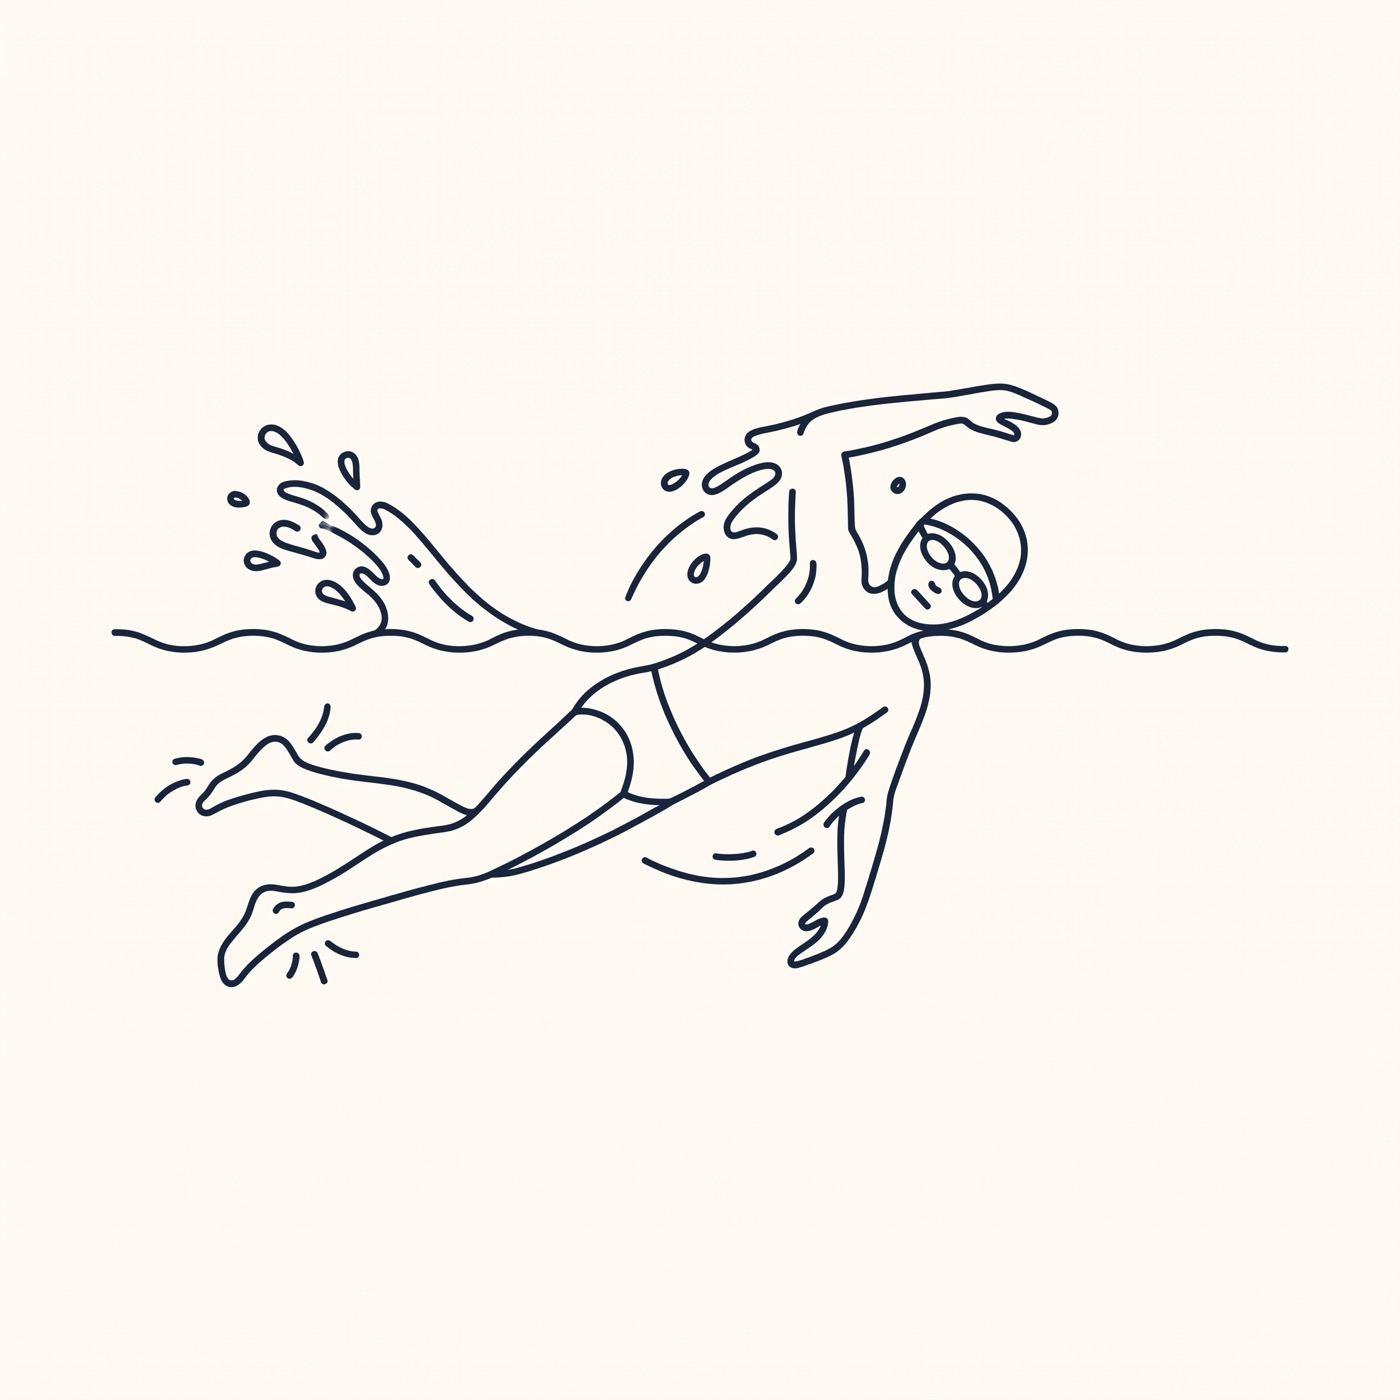
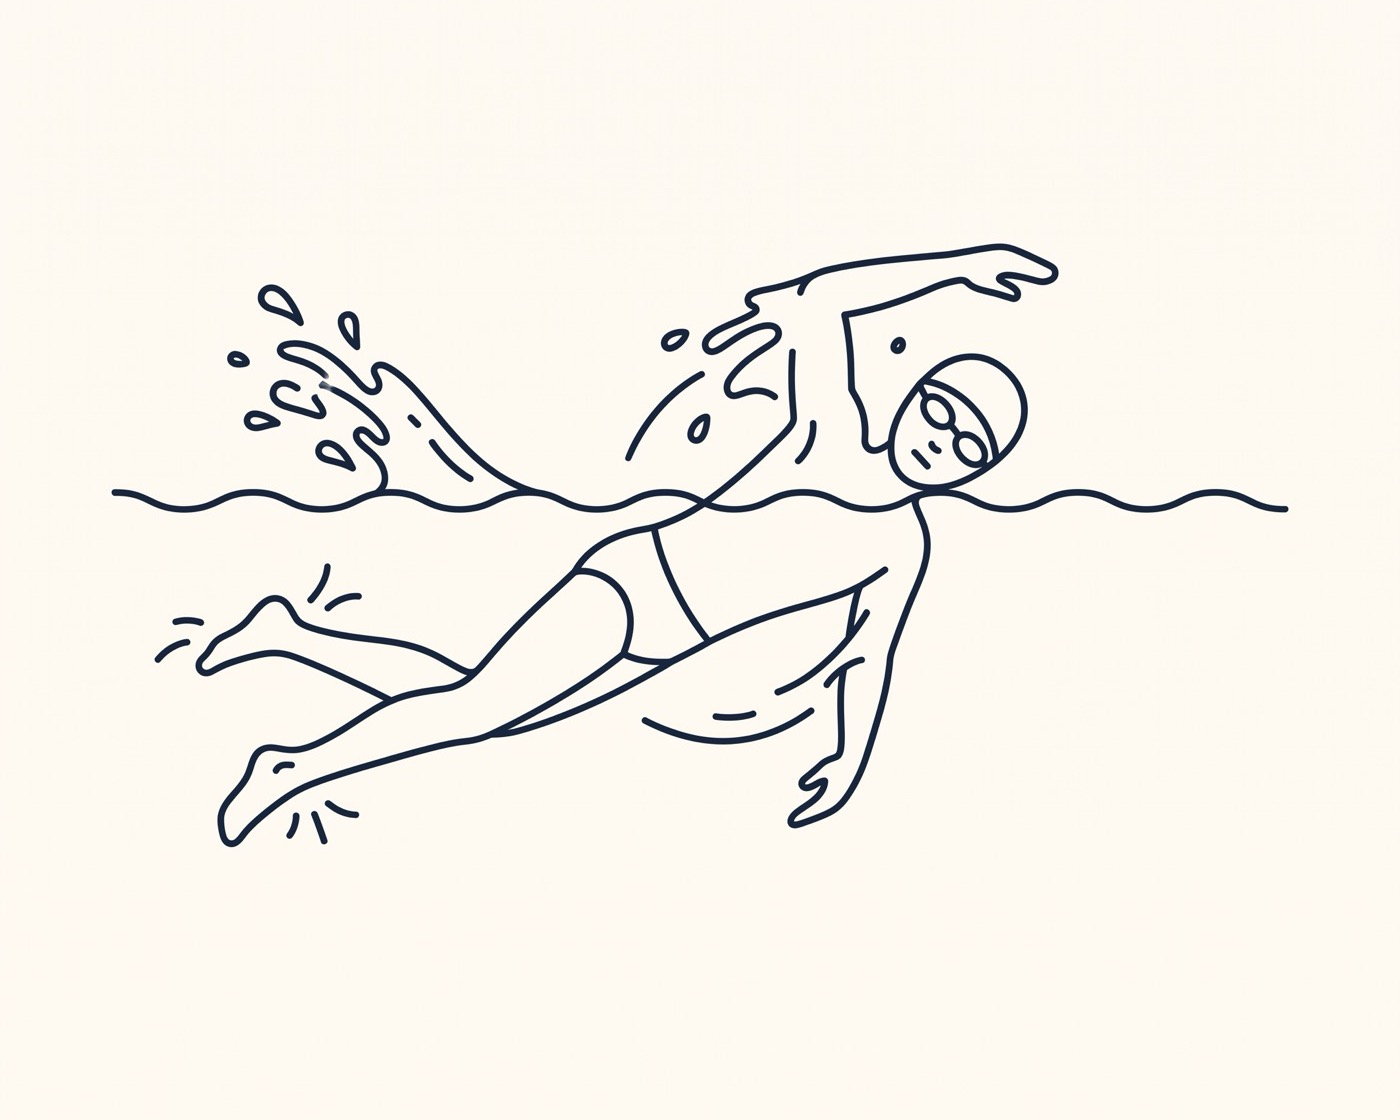
Vault-Backup 2026-09-05 09:28:56

Changed region(s): [[0.0614, 0.2188, 0.9214, 0.75]]

diff --git a/04 Ressourcen/Lernwissenschaft & Pädagogik/Lernen lernen – Präsentation.html b/04 Ressourcen/Lernwissenschaft & Pädagogik/Lernen lernen – Präsentation.html
@@ -116,20 +116,20 @@
   <!-- 6 -->
   <section class="slide">
     <h2 style="margin-bottom:.2em">Kraulschwimmen, erster Versuch</h2>
-    <div style="position:relative; width:min(100%,56vh); margin:0 auto">
+    <div style="position:relative; width:min(100%,62vh); margin:0 auto">
       <img src="bild-schwimmer-anfaenger.jpg" alt="" style="width:100%; display:block">
-      <svg viewBox="0 0 100 100" style="position:absolute; inset:0; width:100%; height:100%" aria-hidden="true">
+      <svg viewBox="0 0 100 80" style="position:absolute; inset:0; width:100%; height:100%" aria-hidden="true">
         <g stroke="#c2531e" stroke-width=".5" fill="none">
-          <path d="M75 20 L64 29"/>
-          <path d="M76 41 L71 41"/>
-          <path d="M76 53 L70 45"/>
-          <path d="M16 78 L20 68"/>
+          <path d="M75 10 L64 19"/>
+          <path d="M76 31 L71 31"/>
+          <path d="M76 43 L70 35"/>
+          <path d="M16 68 L20 58"/>
         </g>
         <g font-family="sans-serif" font-size="3.4" fill="#c2531e">
-          <text x="97" y="21" text-anchor="end">Armzug</text>
-          <text x="97" y="42" text-anchor="end">Kopf drehen</text>
-          <text x="97" y="55" text-anchor="end">Ausatmen</text>
-          <text x="3" y="81">Beinschlag</text>
+          <text x="97" y="11" text-anchor="end">Armzug</text>
+          <text x="97" y="32" text-anchor="end">Kopf drehen</text>
+          <text x="97" y="45" text-anchor="end">Ausatmen</text>
+          <text x="3" y="71">Beinschlag</text>
         </g>
       </svg>
     </div>
@@ -139,7 +139,7 @@
   <!-- 7 -->
   <section class="slide">
     <h2 style="margin-bottom:.2em">Nach ein paar Wochen im Becken</h2>
-    <img src="bild-schwimmer-profi.jpg" alt="" style="width:min(100%,38vh); margin:0 auto; display:block">
+    <img src="bild-schwimmer-profi.jpg" alt="" style="width:min(100%,78vh); margin:0 auto; display:block">
     <div class="flow" style="margin-top:.1em">
       <div class="box" style="border-color:var(--accent); color:var(--accent); font-weight:700; padding:.5em">Kraulen</div>
     </div>
@@ -150,7 +150,7 @@
   <section class="slide">
     <div class="kicker">Geht auch ohne Schwimmbad</div>
     <h2 style="margin-bottom:.2em">Neuer Controller</h2>
-    <img src="bild-controller.jpg" alt="" style="width:min(100%,36vh); margin:0 auto; display:block">
+    <img src="bild-controller.jpg" alt="" style="width:min(100%,74vh); margin:0 auto; display:block">
     <p class="big" data-step style="color:var(--accent); margin-top:.3em">War X jetzt springen oder Y?</p>
   </section>
 
